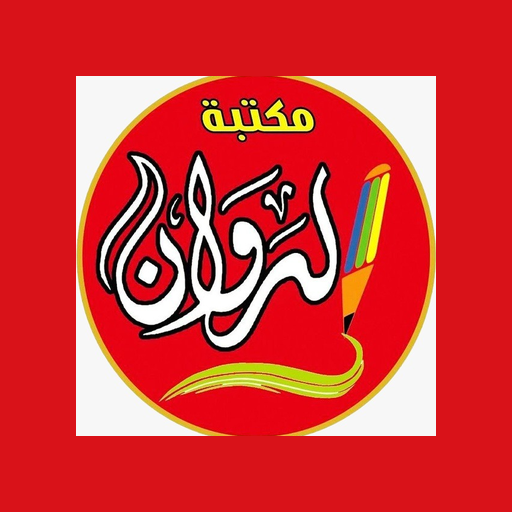
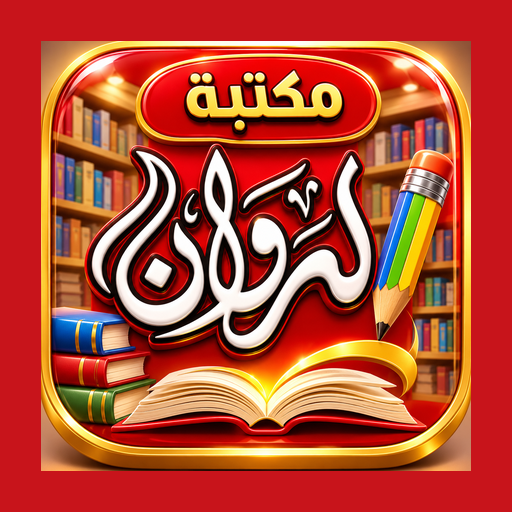
Add files via upload

diff --git a/index.html b/index.html
@@ -6,7 +6,7 @@
 <meta name="theme-color" content="#D91219">
 <title>مكتبة الروان</title>
 <link rel="manifest" href="manifest.json">
-<link rel="apple-touch-icon" href="icon-192.png">
+<link rel="apple-touch-icon" href="apple-touch-icon.png">
 <link rel="icon" href="icon-192.png">
 <meta name="apple-mobile-web-app-capable" content="yes">
 <meta name="mobile-web-app-capable" content="yes">
@@ -48,6 +48,8 @@ input,select,textarea{font-family:inherit;font-size:17px;padding:13px 14px;borde
 .slot{aspect-ratio:1;border:2px dashed var(--black);border-radius:50%;display:flex;align-items:center;justify-content:center;font-weight:700;color:var(--grey)}
 .stamp{aspect-ratio:1;border:3px solid var(--red);outline:1.5px solid var(--red);outline-offset:-7px;border-radius:50%;display:flex;align-items:center;justify-content:center;font-size:12px;font-weight:800;color:var(--red-d);transform:rotate(-12deg)}
 .stamp.new{animation:drop .65s cubic-bezier(.3,1.4,.5,1) both}
+.splash{width:min(84vw,400px);height:auto;border-radius:28px;box-shadow:0 24px 50px rgba(0,0,0,.4);animation:float 4s ease-in-out infinite}
+@keyframes float{0%,100%{transform:translateY(0)}50%{transform:translateY(-8px)}}
 .spin{animation:spin 5s ease-in-out infinite;box-shadow:6px 0 0 #9E0C12,12px 0 0 #8A0A10,0 30px 50px rgba(0,0,0,.35);border-radius:50%}
 @keyframes spin{0%,100%{transform:rotateY(-38deg) rotateX(8deg)}50%{transform:rotateY(38deg) rotateX(-6deg)}}
 @keyframes drop{0%{opacity:0;transform:scale(2.8) rotate(18deg)}55%{opacity:1;transform:scale(.86) rotate(-16deg)}100%{transform:scale(1) rotate(-12deg)}}
@@ -119,7 +121,7 @@ input,select,textarea{box-shadow:inset 0 3px 0 rgba(0,0,0,.08)}
 .enter>*:nth-child(2){animation-delay:.05s}.enter>*:nth-child(3){animation-delay:.1s}.enter>*:nth-child(4){animation-delay:.15s}.enter>*:nth-child(n+5){animation-delay:.2s}
 .enter .tile{animation:flipIn .5s cubic-bezier(.2,.9,.3,1.15) both;transform-origin:50% 100%}
 .enter .tile:nth-child(2){animation-delay:.06s}.enter .tile:nth-child(3){animation-delay:.12s}.enter .tile:nth-child(4){animation-delay:.18s}.enter .tile:nth-child(5){animation-delay:.24s}.enter .tile:nth-child(6){animation-delay:.3s}.enter .tile:nth-child(n+7){animation-delay:.36s}
-@media (prefers-reduced-motion:reduce){.spin,.stamp.new,.enter>*,.enter .tile{animation:none}button,.btn{transition:none}}
+@media (prefers-reduced-motion:reduce){.spin,.splash,.stamp.new,.enter>*,.enter .tile{animation:none}button,.btn{transition:none}}
 </style>
 </head>
 <body>
@@ -301,7 +303,7 @@ function msg() { return (DEMO ? '<p class="msg">وضع العرض التجريب
 
 const V = {
   splash() {
-    return '<div class="center"><div style="perspective:900px"><img class="logo spin" src="' + LOGO + '" alt="شعار مكتبة الروان" width="230" height="230"></div>' +
+    return '<div class="center"><img class="splash" src="splash.jpg" alt="مكتبة الروان — كل ما تحتاجه في مكان واحد" width="900" height="900">' +
       '<h1>اطلب من مكانك، واستلم بلا انتظار</h1>' + msg() +
       (S.cat ? '<button class="b-white" data-act="start">ابدأ</button>' : '<p style="color:#fff;font-weight:700">جارِ التحميل…</p>') + '</div>';
   },

diff --git a/sw.js b/sw.js
@@ -1,6 +1,6 @@
 // مكتبة الروان — يجعل الواجهة تفتح حتى مع ضعف الإنترنت. الطلبات نفسها تحتاج اتصالاً دائماً.
-const CACHE = 'rawan-v9';
-const SHELL = ['./', 'index.html', 'config.js', 'manifest.json', 'icon-192.png', 'icon-512.png'];
+const CACHE = 'rawan-v10';
+const SHELL = ['./', 'index.html', 'config.js', 'manifest.json', 'icon-192.png', 'icon-512.png', 'splash.jpg', 'apple-touch-icon.png'];
 self.addEventListener('install', e => { e.waitUntil(caches.open(CACHE).then(c => c.addAll(SHELL)).then(() => self.skipWaiting())); });
 self.addEventListener('activate', e => {
   e.waitUntil(caches.keys().then(ks => Promise.all(ks.filter(k => k !== CACHE).map(k => caches.delete(k)))).then(() => self.clients.claim()));
